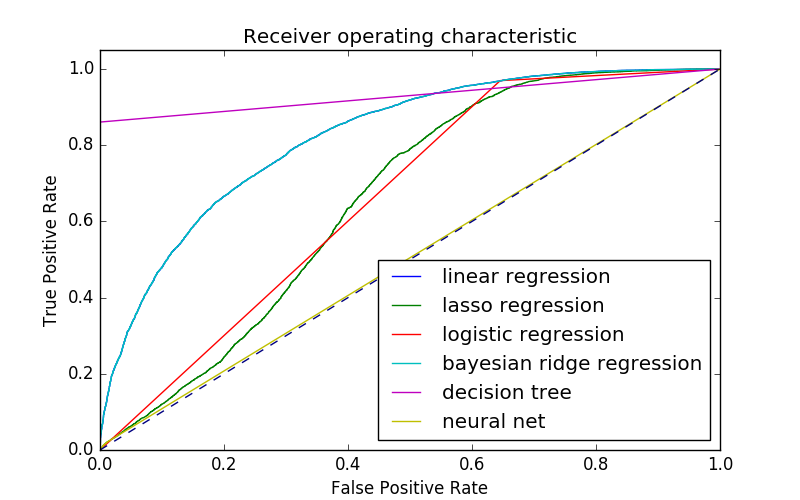
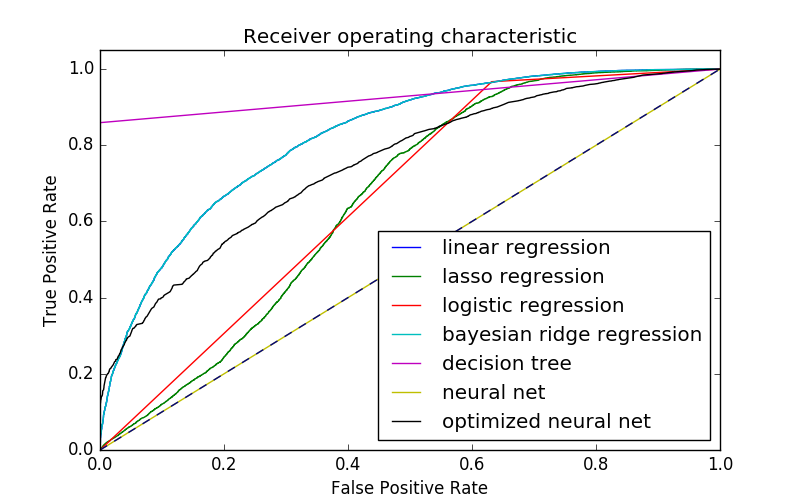
Add optimized neural net

diff --git a/model/NeuralNet.py b/model/NeuralNet.py
@@ -1,7 +1,11 @@
+import sqlite3
+
+import numpy as np
 from keras.layers import Dense, Activation
 from keras.models import Sequential
 from keras.optimizers import SGD
 from sklearn.metrics import f1_score, accuracy_score
+
 
 class NNModel(object):
     """
@@ -49,6 +53,7 @@ class DeepModel(NNModel):
         :param X_test: A matrix of the form [n samples, n features]
         :param y_test: A vector containing the labels for the test data
     """
+
     def __init__(self, X_train, y_train, X_validation, y_validation, X_test, y_test):
         super().__init__(X_train, y_train, X_validation, y_validation, X_test, y_test)
 
@@ -69,7 +74,92 @@ class DeepModel(NNModel):
 
         model.compile(loss='mean_squared_error', optimizer=SGD(lr=0.01), metrics=['accuracy'])
 
-        model.fit(self._X_train, self._y_train, batch_size=50, nb_epoch=5, validation_data=(self._X_validation, self._y_validation))
+        model.fit(self._X_train, self._y_train, batch_size=50, nb_epoch=5,
+                  validation_data=(self._X_validation, self._y_validation))
+        y_predictions = model.predict(self._X_test, batch_size=50)
+
+        # assume that everything which was predicted with p > 0.5 is positive
+        predictions = [1 if x > 0.5 else 0 for x in y_predictions]
+
+        return accuracy_score(self._y_test, predictions), f1_score(self._y_test, predictions), y_predictions
+
+
+class OptimizedDeepModel(object):
+    """
+        This is an optimized version of the same neural net as DeepModel,
+        but it uses different data in order to train and evaluate.
+    """
+
+    def __init__(self, db_name):
+        """
+            :param db_name: The name and path to the database storing the features
+        """
+        self._connection = sqlite3.connect(db_name)
+        self._init()
+
+    def _init(self):
+        """
+            Retrieves the first 120000 entries from the dataset as training data and again 30000 as test data
+        """
+        cursor = self._connection.cursor()
+
+        cursor.execute(
+            'SELECT feature_1, feature_2, feature_3, feature_4, success FROM (SELECT reports.bug_id, feature_1, feature_2, feature_3, feature_4, 1 AS success FROM (SELECT * FROM reports INNER JOIN features ON features.bug_id = reports.bug_id LIMIT 0, 120000) AS reports WHERE feature_1 NOT NULL AND feature_2 NOT NULL AND feature_3 NOT NULL AND feature_4 NOT NULL AND ( current_status == "RESOLVED" AND reports.current_resolution == "WORKSFORME" OR current_status == "RESOLVED" AND reports.current_resolution == "FIXED" OR current_status == "VERIFIED" AND reports.current_resolution == "FIXED" OR current_status == "CLOSED" AND reports.current_resolution == "WORKSFORME" OR current_status == "CLOSED" AND reports.current_resolution == "FIXED") UNION SELECT reports.bug_id, feature_1, feature_2, feature_3, feature_4, 0 AS success FROM (SELECT * FROM reports INNER JOIN features ON features.bug_id = reports.bug_id LIMIT 0, 120000) AS reports WHERE feature_1 NOT NULL AND feature_2 NOT NULL AND feature_3 NOT NULL AND feature_4 NOT NULL AND ( reports.current_status == "RESOLVED" AND reports.current_resolution == "WONTFIX" OR reports.current_status == "RESOLVED" AND reports.current_resolution == "INVALID" OR reports.current_status == "CLOSED" AND reports.current_resolution == "WONTFIX" OR reports.current_status == "CLOSED" AND reports.current_resolution == "INVALID" OR reports.current_status == "VERIFIED" AND reports.current_resolution == "WONTFIX" OR reports.current_status == "VERIFIED" AND reports.current_resolution == "INVALID") )')
+        X_train_y_train = cursor.fetchall()
+        X_train_y_train = np.array(X_train_y_train)
+
+        # split this shit up into training data and corresponding labels
+        X_train = X_train_y_train[:, [0, 1, 2, 3]]
+        y_train = X_train_y_train[:, [4]]
+
+        cursor.execute(
+            'SELECT feature_1, feature_2, feature_3, feature_4, success FROM (SELECT reports.bug_id, feature_1, feature_2, feature_3, feature_4, 1 AS success FROM (SELECT * FROM reports INNER JOIN features ON features.bug_id = reports.bug_id LIMIT 120001, 150000) AS reports WHERE feature_1 NOT NULL AND feature_2 NOT NULL AND feature_3 NOT NULL AND feature_4 NOT NULL AND ( current_status == "RESOLVED" AND reports.current_resolution == "WORKSFORME" OR current_status == "RESOLVED" AND reports.current_resolution == "FIXED" OR current_status == "VERIFIED" AND reports.current_resolution == "FIXED" OR current_status == "CLOSED" AND reports.current_resolution == "WORKSFORME" OR current_status == "CLOSED" AND reports.current_resolution == "FIXED") UNION SELECT reports.bug_id, feature_1, feature_2, feature_3, feature_4, 0 AS success FROM (SELECT * FROM reports INNER JOIN features ON features.bug_id = reports.bug_id LIMIT 120001, 150000) AS reports WHERE feature_1 NOT NULL AND feature_2 NOT NULL AND feature_3 NOT NULL AND feature_4 NOT NULL AND ( reports.current_status == "RESOLVED" AND reports.current_resolution == "WONTFIX" OR reports.current_status == "RESOLVED" AND reports.current_resolution == "INVALID" OR reports.current_status == "CLOSED" AND reports.current_resolution == "WONTFIX" OR reports.current_status == "CLOSED" AND reports.current_resolution == "INVALID" OR reports.current_status == "VERIFIED" AND reports.current_resolution == "WONTFIX" OR reports.current_status == "VERIFIED" AND reports.current_resolution == "INVALID") )')
+        X_test_y_test = cursor.fetchall()
+        X_test_y_test = np.array(X_test_y_test)
+
+        # split this shit up into training data and corresponding labels
+        X_test = X_test_y_test[:, [0, 1, 2, 3]]
+        y_test = X_test_y_test[:, [4]]
+
+        if X_train.shape[0] != y_train.shape[0] or X_test.shape[0] != y_test.shape[0]:
+            raise Exception("There are not an equal size of labels and samples")
+
+        self._X_train = X_train
+        self._y_train = y_train
+        self._X_test = X_test
+        self._y_test = y_test
+
+    def getTrainingData(self):
+        """
+        Returns the used training data an its labels
+
+        :return: np.array, np.array
+        """
+        return self._X_train, self._y_train
+
+    def getTestData(self):
+        """
+            Returns the used test data an its labels
+
+            :return: np.array, np.array
+        """
+        return self._X_test, self._y_test
+
+    def evaluate(self):
+        """
+            Evaluates the model based on the fetched training and test data
+
+            :return: As 1st parameter the accuracy, as 2nd the f1 score and as 3rd the achieved predictions on the test set
+        """
+        model = Sequential()
+        model.add(Dense(5, input_dim=self._X_train.shape[1]))
+        model.add(Activation('sigmoid'))
+        model.add(Dense(1))
+        model.add(Activation('sigmoid'))
+
+        model.compile(loss='binary_crossentropy', optimizer='sgd', metrics=['accuracy'])
+
+        model.fit(self._X_train, self._y_train, batch_size=50, nb_epoch=5)
         y_predictions = model.predict(self._X_test, batch_size=50)
 
         # assume that everything which was predicted with p > 0.5 is positive

diff --git a/model/run_models.py b/model/run_models.py
@@ -1,14 +1,12 @@
 import os.path as path
 
+from matplotlib import pyplot as plt
+from sklearn.metrics import roc_curve
+
 from model import LinearModel
 from model import NeuralNet
 from model import TreeModel
 from setup import Sampler
-
-from matplotlib import pyplot as plt
-from sklearn.metrics import roc_curve
-
-import numpy as np
 
 # Predict results using different models
 
@@ -52,7 +50,13 @@ nn = NeuralNet.DeepModel(X_train, y_train, X_validation, y_validation, X_test, y
 accuracy, f1_score, nn_y_predictions = nn.evaluate()
 print('Achieved accuracy of %s and f1 score of %s' % (accuracy, f1_score))
 
+print('Using optimized neural net to evaluate...')
+opt_nn = NeuralNet.OptimizedDeepModel(db_name=database)
+accuracy, f1_score, optimized_nn_y_predictions = opt_nn.evaluate()
+print('Achieved accuracy of %s and f1 score of %s' % (accuracy, f1_score))
 
+
+# Create ROC figure
 plt.figure(dpi=600, figsize=(8, 5))
 linewidth = 1
 
@@ -73,6 +77,10 @@ plt.plot(fpr, tpr, lw=linewidth, label='decision tree')
 
 fpr, tpr, thresholds = roc_curve(y_test, nn_y_predictions)
 plt.plot(fpr, tpr, lw=linewidth, label='neural net')
+
+opt_nn_X_test, opt_nn_y_test = opt_nn.getTestData()
+fpr, tpr, thresholds = roc_curve(opt_nn_y_test, optimized_nn_y_predictions)
+plt.plot(fpr, tpr, lw=linewidth, label='optimized neural net')
 
 plt.plot([0, 1], [0, 1], color='navy', lw=linewidth, linestyle='--')
 plt.xlim([0.0, 1.0])
